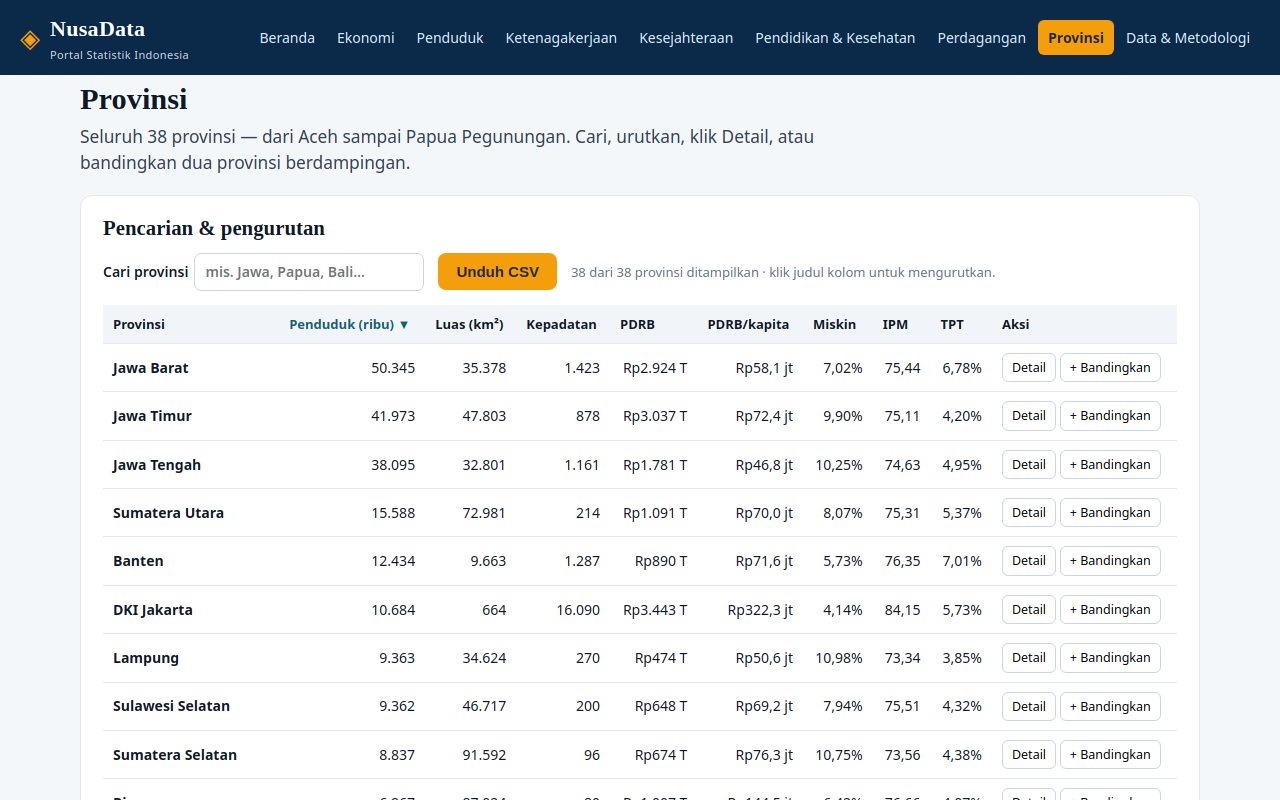
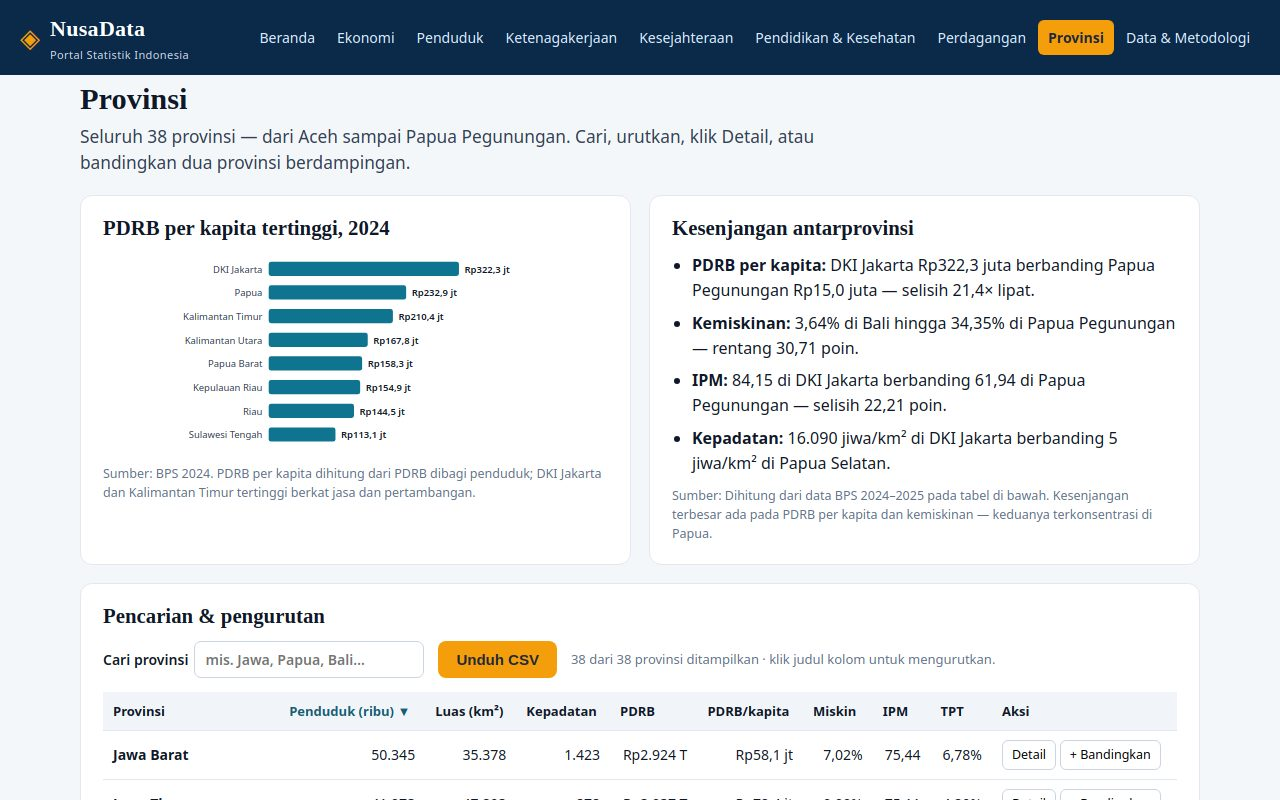
NusaData r2 revisi: perbaiki NaN grafik 1-tahun, tambah kesenjangan provinsi, perbarui kemiskinan/Gini Mar 2026

diff --git a/app/main.js b/app/main.js
@@ -61,7 +61,7 @@ function renderHome() {
     <div class="hero-facts">
       <div><strong>285,7 jt</strong><span>penduduk (2025)</span></div>
       <div><strong>5,11%</strong><span>pertumbuhan ekonomi 2025</span></div>
-      <div><strong>8,47%</strong><span>penduduk miskin (Mar 2025)</span></div>
+      <div><strong>8,07%</strong><span>penduduk miskin (Mar 2026)</span></div>
       <div><strong>75,02</strong><span>IPM 2024</span></div>
     </div>
   </section>
@@ -114,7 +114,7 @@ function renderEkonomi() {
   </div>
   ${card("APBN — pendapatan, belanja, dan defisit", `<div class="table-wrap"><table class="tbl"><thead><tr><th>Tahun</th><th class="num">Pendapatan negara</th><th class="num">Belanja negara</th><th class="num">Defisit</th></tr></thead><tbody>${apbnRows}</tbody></table></div>` + srcNote(APBN_NOTE))}
   <section class="card"><h2>Apa yang mendorong pertumbuhan?</h2>
-  <p>Konsumsi rumah tangga menyumbang sekitar 54% PDB dan tumbuh 4,9% pada 2025; investasi (PMTB) tumbuh 5,1%; ekspor barang dan jasa tumbuh 6,9%. Dari sisi lapangan usaha, industri pengolahan, perdagangan, dan pertanian adalah tiga penopang terbesar. Utang pemerintah tercatat 40,5% PDB pada akhir 2025 — di bawah batas 60% yang ditetapkan undang-undang (Kementerian Keuangan).</p></section>`;
+  <p>Konsumsi rumah tangga menyumbang 53,8% PDB dan tumbuh 4,98% pada 2025; investasi (PMTB) tumbuh 5,04% pada triwulan III-2025; ekspor barang dan jasa tumbuh 7,03% sepanjang 2025. Dari sisi lapangan usaha, industri pengolahan, perdagangan, dan pertanian adalah tiga penopang terbesar. Utang pemerintah tercatat 40,5% PDB pada akhir 2025 — di bawah batas 60% yang ditetapkan undang-undang (Kementerian Keuangan).</p></section>`;
   document.getElementById("eco-from").addEventListener("change", e => {
     ecoFrom = Math.min(+e.target.value, ecoTo); renderEkonomi();
   });
@@ -186,11 +186,11 @@ function renderSejahtera() {
   const hdiProv = [...PROVINCES].sort((a, b) => b.hdi - a.hdi).slice(0, 8)
     .map(p => ({ label: p.n, v: p.hdi, tip: p.hdi.toFixed(2).replace(".", ",") }));
   app.innerHTML = `
-  ${pageHead("Kesejahteraan", "Kemiskinan 8,47% pada Maret 2025 — terendah dalam dua dekade — dengan garis kemiskinan Rp609.160 per kapita per bulan.")}
+  ${pageHead("Kesejahteraan", "Kemiskinan 8,07% pada Maret 2026 — terendah sepanjang sejarah pencatatan BPS — dengan garis kemiskinan Rp669.235 per kapita per bulan.")}
   <div class="stat-strip">
-    <div><strong>8,47%</strong><span>Miskin (Mar 2025)</span></div>
-    <div><strong>23,85 jt</strong><span>Jiwa miskin</span></div>
-    <div><strong>0,375</strong><span>Rasio Gini</span></div>
+    <div><strong>8,07%</strong><span>Miskin (Mar 2026)</span></div>
+    <div><strong>22,93 jt</strong><span>Jiwa miskin</span></div>
+    <div><strong>0,368</strong><span>Rasio Gini</span></div>
     <div><strong>75,02</strong><span>IPM 2024</span></div>
     <div><strong>0,85%</strong><span>Kemiskinan ekstrem</span></div>
   </div>
@@ -203,14 +203,14 @@ function renderSejahtera() {
     ${card("IPM tertinggi menurut provinsi, 2024", hbarChart(hdiProv, { color: "#15803d", aria: "Provinsi dengan IPM tertinggi" }) + srcNote("BPS, IPM 2024. DKI Jakarta (84,15) dan DI Yogyakarta (81,62) berkategori sangat tinggi (≥80)."))}
   </div>
   <div class="grid-2">
-    ${card("Ketimpangan — Rasio Gini", lineChart(giniLine, { color: "#6d28d9", aria: "Rasio Gini" }) + srcNote("BPS, Susenas Maret. Gini perkotaan 0,404 dan perdesaan 0,304 (Maret 2025)."))}
+    ${card("Ketimpangan — Rasio Gini", lineChart(giniLine, { color: "#6d28d9", aria: "Rasio Gini" }) + srcNote("BPS, Susenas Maret. Gini Maret 2026: 0,368 — naik dari 0,363 pada September 2025."))}
     <section class="card"><h2>Bantuan sosial</h2>
     <ul class="notes">
       <li><strong>PKH:</strong> ${esc(WELFARE.pkh)} — bantuan tunai bersyarat untuk keluarga sangat miskin.</li>
       <li><strong>Sembako / BPNT:</strong> ${esc(WELFARE.sembako)} — bantuan pangan non tunai Rp200.000/bulan.</li>
       <li><strong>PBI JKN:</strong> ${esc(WELFARE.pbiJkn)} — iuran jaminan kesehatan dibayar pemerintah.</li>
       <li><strong>Garis kemiskinan:</strong> ${esc(WELFARE.garisKemiskinan)}; kemiskinan kota ${esc(WELFARE.miskinKota)}, desa ${esc(WELFARE.miskinDesa)}.</li>
-    </ul>${srcNote("Kementerian Sosial dan BPJS Kesehatan, 2024; BPS, Maret 2025.")}</section>
+    </ul>${srcNote("Kementerian Sosial dan BPJS Kesehatan, 2024; BPS, Maret 2026.")}</section>
   </div>`;
 }
 
@@ -292,6 +292,18 @@ function provRows() {
 }
 function renderProvinsi() {
   const rows = provRows();
+  // Kesenjangan antarprovinsi — dihitung dari data yang sama dengan tabel.
+  const withGcap = PROVINCES.map(p => ({ ...p, dens: p.pop * 1000 / p.area, gcap: p.grdp * 1e12 / (p.pop * 1000) / 1e6 }));
+  const topGcap = [...withGcap].sort((a, b) => b.gcap - a.gcap).slice(0, 8)
+    .map(p => ({ label: p.n, v: +p.gcap.toFixed(1), tip: "Rp" + fmtID(p.gcap, 1) + " jt" }));
+  const maxG = withGcap.reduce((a, b) => b.gcap > a.gcap ? b : a);
+  const minG = withGcap.reduce((a, b) => b.gcap < a.gcap ? b : a);
+  const maxPov = withGcap.reduce((a, b) => b.pov > a.pov ? b : a);
+  const minPov = withGcap.reduce((a, b) => b.pov < a.pov ? b : a);
+  const maxHdi = withGcap.reduce((a, b) => b.hdi > a.hdi ? b : a);
+  const minHdi = withGcap.reduce((a, b) => b.hdi < a.hdi ? b : a);
+  const maxDens = withGcap.reduce((a, b) => b.dens > a.dens ? b : a);
+  const minDens = withGcap.reduce((a, b) => b.dens < a.dens ? b : a);
   const arrow = k => provState.sort === k ? (provState.dir === 1 ? " ▲" : " ▼") : "";
   const th = (k, label) => `<th data-sort="${k}" class="sortable${provState.sort === k ? " active" : ""}">${label}${arrow(k)}</th>`;
   const body = rows.map(p => `<tr data-prov="${esc(p.n)}">
@@ -308,6 +320,16 @@ function renderProvinsi() {
   </tr>`).join("");
   app.innerHTML = `
   ${pageHead("Provinsi", "Seluruh 38 provinsi — dari Aceh sampai Papua Pegunungan. Cari, urutkan, klik Detail, atau bandingkan dua provinsi berdampingan.")}
+  <div class="grid-2">
+    ${card("PDRB per kapita tertinggi, 2024", hbarChart(topGcap, { aria: "Provinsi dengan PDRB per kapita tertinggi" }) + srcNote("BPS 2024. PDRB per kapita dihitung dari PDRB dibagi penduduk; DKI Jakarta dan Kalimantan Timur tertinggi berkat jasa dan pertambangan."))}
+    <section class="card"><h2>Kesenjangan antarprovinsi</h2>
+    <ul class="notes">
+      <li><strong>PDRB per kapita:</strong> ${esc(maxG.n)} Rp${fmtID(maxG.gcap, 1)} juta berbanding ${esc(minG.n)} Rp${fmtID(minG.gcap, 1)} juta — selisih ${(maxG.gcap / minG.gcap).toFixed(1).replace(".", ",")}× lipat.</li>
+      <li><strong>Kemiskinan:</strong> ${minPov.pov.toFixed(2).replace(".", ",")}% di ${esc(minPov.n)} hingga ${maxPov.pov.toFixed(2).replace(".", ",")}% di ${esc(maxPov.n)} — rentang ${(maxPov.pov - minPov.pov).toFixed(2).replace(".", ",")} poin.</li>
+      <li><strong>IPM:</strong> ${maxHdi.hdi.toFixed(2).replace(".", ",")} di ${esc(maxHdi.n)} berbanding ${minHdi.hdi.toFixed(2).replace(".", ",")} di ${esc(minHdi.n)} — selisih ${(maxHdi.hdi - minHdi.hdi).toFixed(2).replace(".", ",")} poin.</li>
+      <li><strong>Kepadatan:</strong> ${fmtID(Math.round(maxDens.dens))} jiwa/km² di ${esc(maxDens.n)} berbanding ${fmtID(Math.round(minDens.dens))} jiwa/km² di ${esc(minDens.n)}.</li>
+    </ul>${srcNote("Dihitung dari data BPS 2024–2025 pada tabel di bawah. Kesenjangan terbesar ada pada PDRB per kapita dan kemiskinan — keduanya terkonsentrasi di Papua.")}</section>
+  </div>
   <section class="card"><h2>Pencarian &amp; pengurutan</h2>
     <div class="controls">
       <label>Cari provinsi <input id="prov-q" type="search" placeholder="mis. Jawa, Papua, Bali…" value="${esc(provState.q)}"></label>

diff --git a/app/data.js b/app/data.js
@@ -18,9 +18,9 @@ export const KPI = [
   { id: "growth", label: "Pertumbuhan ekonomi", value: "5,11%", sub: "2025 · dari 5,03% pada 2024", src: "BPS, PDB 2025", spark: [3.70, 5.31, 5.05, 5.03, 5.11], unit: "% y-on-y" },
   { id: "infl", label: "Inflasi", value: "1,91%", sub: "2025 · rata-rata tahunan", src: "BPS / IMF 2025", spark: [1.87, 5.51, 2.61, 1.57, 1.91], unit: "% y-on-y" },
   { id: "unemp", label: "Pengangguran terbuka", value: "4,85%", sub: "Agu 2025 · 7,46 jt orang", src: "BPS, Sakernas Agu 2025", spark: [6.49, 5.86, 5.32, 4.91, 4.85], unit: "% angkatan kerja" },
-  { id: "pov", label: "Kemiskinan", value: "8,47%", sub: "Mar 2025 · 23,85 jt orang", src: "BPS, Susenas Mar 2025", spark: [10.14, 9.54, 9.36, 9.03, 8.47], unit: "% penduduk" },
+  { id: "pov", label: "Kemiskinan", value: "8,07%", sub: "Mar 2026 · 22,93 jt orang", src: "BPS, Susenas Mar 2026", spark: [10.14, 9.54, 9.36, 9.03, 8.47, 8.07], unit: "% penduduk" },
   { id: "hdi", label: "Indeks Pembangunan Manusia", value: "75,02", sub: "2024 · dari 74,39 pada 2023", src: "BPS, IPM 2024", spark: [71.92, 72.29, 73.37, 74.39, 75.02], unit: "skala 0–100" },
-  { id: "gini", label: "Rasio Gini", value: "0,375", sub: "Mar 2025 · dari 0,379 setahun lalu", src: "BPS, Mar 2025", spark: [0.381, 0.384, 0.388, 0.379, 0.375], unit: "0 = merata" },
+  { id: "gini", label: "Rasio Gini", value: "0,368", sub: "Mar 2026 · dari 0,375 pada Mar 2025", src: "BPS, Mar 2026", spark: [0.381, 0.384, 0.388, 0.379, 0.375, 0.368], unit: "0 = merata" },
 ];
 
 // PDB harga berlaku (Rp triliun) dan pertumbuhan riil (% y-on-y). BPS.
@@ -141,7 +141,7 @@ export const POVERTY_SERIES = [
 export const GINI_SERIES = [
   { y: 2019, v: 0.382 }, { y: 2020, v: 0.385 }, { y: 2021, v: 0.381 },
   { y: 2022, v: 0.384 }, { y: 2023, v: 0.388 }, { y: 2024, v: 0.379 },
-  { y: 2025, v: 0.375 },
+  { y: 2025, v: 0.375 }, { y: 2026, v: 0.368 },
 ];
 // IPM nasional.
 export const HDI_SERIES = [
@@ -149,9 +149,9 @@ export const HDI_SERIES = [
   { y: 2022, v: 73.37 }, { y: 2023, v: 74.39 }, { y: 2024, v: 75.02 },
 ];
 export const WELFARE = {
-  garisKemiskinan: "Rp609.160/kapita/bulan (Mar 2025)",
-  miskinKota: "6,73% (Mar 2025)",
-  miskinDesa: "11,03% (Mar 2025)",
+  garisKemiskinan: "Rp669.235/kapita/bulan (Mar 2026)",
+  miskinKota: "6,34% (Mar 2026)",
+  miskinDesa: "10,67% (Mar 2026)",
   kemiskinanEkstrem: "0,85% (2025)",
   pkh: "10,0 jt keluarga penerima manfaat (2024)",
   sembako: "18,8 jt keluarga penerima manfaat (2024)",
@@ -260,22 +260,23 @@ export const PROV_NOTE = "Penduduk dan luas wilayah: BPS 2024. PDRB: BPS 2024 (h
 
 // ---- Rilis terbaru & kalender (BPS) ----
 export const RELEASES = [
-  { t: "Pertumbuhan Ekonomi Indonesia Triwulan III-2025", d: "5 Nov 2025", v: "5,11% (y-on-y)" },
-  { t: "Tingkat Pengangguran Terbuka Agustus 2025", d: "5 Nov 2025", v: "4,85%" },
+  { t: "Kemiskinan Maret 2026", d: "5 Agu 2026", v: "8,07%" },
+  { t: "Pertumbuhan Ekonomi Triwulan IV-2025", d: "5 Feb 2026", v: "5,39% (y-on-y); 2025 penuh 5,11%" },
+  { t: "Profil Kemiskinan September 2025", d: "5 Feb 2026", v: "8,25%" },
   { t: "Inflasi November 2025", d: "1 Des 2025", v: "2,86% (y-on-y)" },
   { t: "Ekspor–Impor Oktober 2025", d: "1 Des 2025", v: "Surplus US$2,4 miliar" },
-  { t: "Indeks Pembangunan Manusia 2024", d: "15 Mei 2025", v: "75,02" },
+  { t: "Pertumbuhan Ekonomi Triwulan III-2025", d: "5 Nov 2025", v: "5,04% (y-on-y)" },
+  { t: "Tingkat Pengangguran Terbuka Agustus 2025", d: "5 Nov 2025", v: "4,85%" },
   { t: "Kemiskinan Maret 2025", d: "15 Jul 2025", v: "8,47%" },
-  { t: "Upah Buruh dan Kemiskinan September 2025", d: "15 Jan 2026", v: "8,25%" },
-  { t: "Pertumbuhan Ekonomi Triwulan IV-2025", d: "5 Feb 2026", v: "Jadwal rilis BPS" },
+  { t: "Indeks Pembangunan Manusia 2024", d: "15 Mei 2025", v: "75,02" },
 ];
 export const RELEASE_CALENDAR = [
   { t: "Inflasi Desember 2026", d: "2 Jan 2027", s: "Berita Resmi Statistik" },
   { t: "Ekspor–Impor November 2026", d: "15 Des 2026", s: "Berita Resmi Statistik" },
-  { t: "Pertumbuhan Ekonomi Triwulan III-2026", d: "5 Nov 2026", s: "Berita Resmi Statistik" },
-  { t: "Tingkat Pengangguran Terbuka Agustus 2026", d: "5 Nov 2026", s: "Berita Resmi Statistik" },
+  { t: "Pertumbuhan Ekonomi Triwulan IV-2026", d: "5 Feb 2027", s: "Berita Resmi Statistik" },
+  { t: "Kemiskinan September 2026", d: "Feb 2027", s: "Berita Resmi Statistik" },
+  { t: "Tingkat Pengangguran Terbuka Februari 2027", d: "5 Mei 2027", s: "Berita Resmi Statistik" },
   { t: "Indeks Pembangunan Manusia 2025", d: "Mei 2027", s: "Publikasi BPS" },
-  { t: "Kemiskinan Maret 2026", d: "Jul 2026", s: "Berita Resmi Statistik" },
   { t: "Proyeksi Penduduk 2025–2045", d: "2026", s: "Publikasi BPS" },
   { t: "Sensus Ekonomi 2026 (tahap lanjutan)", d: "2026", s: "Sensus BPS" },
 ];
@@ -291,7 +292,7 @@ export const SOURCES = [
 export const METHODS = [
   { t: "PDB", d: "Produk Domestik Bruto dihitung BPS dengan pendekatan produksi, pengeluaran, dan pendapatan; pertumbuhan memakai harga konstan 2010. Angka 2025 adalah angka sangat sementara." },
   { t: "Inflasi", d: "Indeks Harga Konsumen dihitung dari 90 kota (Survei Biaya Hidup 2022). Inflasi tahunan membandingkan IHK Desember dengan Desember tahun sebelumnya." },
-  { t: "Kemiskinan", d: "Garis kemiskinan = garis kemiskinan makanan + nonmakanan. Seseorang miskin bila pengeluaran per kapita per bulan di bawah garis (Rp609.160 pada Maret 2025)." },
+  { t: "Kemiskinan", d: "Garis kemiskinan = garis kemiskinan makanan + nonmakanan. Seseorang miskin bila pengeluaran per kapita per bulan di bawah garis (Rp669.235 pada Maret 2026)." },
   { t: "Pengangguran terbuka", d: "Survei Angkatan Kerja Nasional (Sakernas) dua kali setahun. TPT = penganggur dibagi angkatan kerja; bekerja didefinisikan bekerja minimal 1 jam dalam seminggu terakhir." },
   { t: "IPM", d: "Indeks Pembangunan Manusia menggabungkan umur panjang dan hidup sehat, pengetahuan, dan standar hidup layak. Skala 0–100; 70–79,99 berkategori tinggi." },
   { t: "Rasio Gini", d: "Mengukur ketimpangan pengeluaran. Nilai 0 berarti merata sempurna, 1 berarti timpang sempurna. Dihitung dari Susenas." },

diff --git a/app/charts.js b/app/charts.js
@@ -31,7 +31,8 @@ export function lineChart(data, opts = {}) {
   if (max === min) max = min + 1;
   const top = niceMax(max), bot = min < 0 ? -niceMax(-min) : 0;
   const iw = w - padL - padR, ih = h - padT - padB;
-  const x = i => padL + (iw * i) / (data.length - 1);
+  // Satu titik (mis. rentang tahun satu tahun di halaman Ekonomi): pusatkan titiknya.
+  const x = i => data.length === 1 ? w / 2 : padL + (iw * i) / (data.length - 1);
   const y = v => padT + ih * (1 - (v - bot) / (top - bot));
   const color = opts.color || "#0e7490";
   const grid = [0, 0.25, 0.5, 0.75, 1].map(f => {
